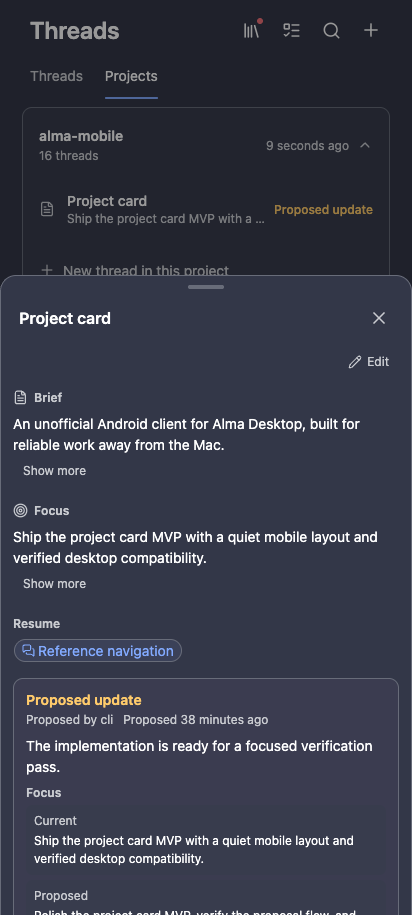
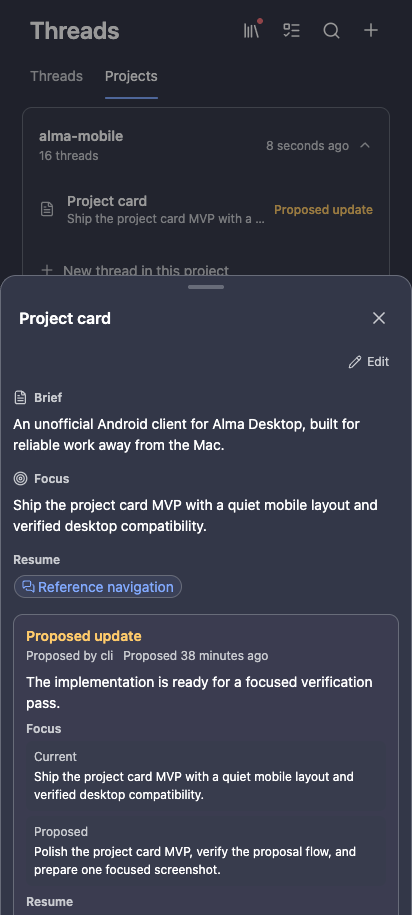
fix(ui): only show project card toggle when text overflows
Measure the clamped paragraph and hide "Show more" when the brief or
focus already fits; keep it while expanded so it can collapse again.

Changed region(s): [[0.0291, 0.4896, 0.9029, 1.0], [0.5243, 0.9792, 0.5825, 1.0], [0.7282, 0.9792, 0.7573, 1.0]]

diff --git a/src/screens/ProjectCardSection.tsx b/src/screens/ProjectCardSection.tsx
@@ -1,5 +1,11 @@
 import { FileText, Pencil, Target } from 'lucide-react'
-import { useCallback, useEffect, useState } from 'react'
+import {
+  useCallback,
+  useEffect,
+  useLayoutEffect,
+  useRef,
+  useState,
+} from 'react'
 import { useDesktopThreadEvents } from '../desktops/ThreadActivityProvider'
 import { BottomSheet } from '../components/BottomSheet'
 import { Snackbar } from '../components/Snackbar'
@@ -17,6 +23,7 @@ import {
   formatProjectCardRelativeTime,
   normalizeProjectCardResponse,
   projectCardIsHidden,
+  projectCardNeedsToggle,
 } from './projectCard'
 
 interface ProjectCardSectionProps {
@@ -34,19 +41,38 @@ type CardState =
 function ExpandableText({ value }: { value: string }) {
   const t = useT()
   const [expanded, setExpanded] = useState(false)
+  const [showToggle, setShowToggle] = useState(false)
+  const paragraph = useRef<HTMLParagraphElement>(null)
+  useLayoutEffect(() => {
+    const node = paragraph.current
+    if (!node) return
+    const measure = () =>
+      setShowToggle(
+        projectCardNeedsToggle(expanded, node.scrollHeight, node.clientHeight),
+      )
+    measure()
+    if (typeof ResizeObserver === 'undefined') return
+    const observer = new ResizeObserver(measure)
+    observer.observe(node)
+    return () => observer.disconnect()
+  }, [expanded, value])
   return value ? (
     <div className="project-card-expandable">
-      <p className={expanded ? '' : 'clamped'}>{value}</p>
-      <button
-        className="quiet-text-button"
-        onClick={() => setExpanded((current) => !current)}
-      >
-        {t(
-          expanded
-            ? 'threads.projectCard.collapse'
-            : 'threads.projectCard.expand',
-        )}
-      </button>
+      <p ref={paragraph} className={expanded ? '' : 'clamped'}>
+        {value}
+      </p>
+      {showToggle && (
+        <button
+          className="quiet-text-button"
+          onClick={() => setExpanded((current) => !current)}
+        >
+          {t(
+            expanded
+              ? 'threads.projectCard.collapse'
+              : 'threads.projectCard.expand',
+          )}
+        </button>
+      )}
     </div>
   ) : (
     <p className="project-card-empty">{t('threads.projectCard.empty')}</p>

diff --git a/src/screens/projectCard.test.ts b/src/screens/projectCard.test.ts
@@ -1,6 +1,7 @@
 import { describe, expect, it } from 'vitest'
 import { AlmaHttpError } from '../relay'
 import {
+  projectCardNeedsToggle,
   diffProjectCard,
   formatProjectCardRelativeTime,
   normalizeProjectCardResponse,
@@ -99,5 +100,18 @@ describe('project card relative time', () => {
 
   it('returns an empty string for invalid timestamps', () => {
     expect(formatProjectCardRelativeTime('invalid', Date.now(), 'en')).toBe('')
+  })
+})
+
+describe('project card expand toggle', () => {
+  it('hides the toggle when the clamped text fits', () => {
+    expect(projectCardNeedsToggle(false, 40, 40)).toBe(false)
+    expect(projectCardNeedsToggle(false, 41, 40)).toBe(false)
+  })
+  it('shows the toggle when the clamped text overflows', () => {
+    expect(projectCardNeedsToggle(false, 120, 60)).toBe(true)
+  })
+  it('keeps the toggle while expanded so it can collapse again', () => {
+    expect(projectCardNeedsToggle(true, 40, 40)).toBe(true)
   })
 })

diff --git a/src/screens/projectCard.ts b/src/screens/projectCard.ts
@@ -134,3 +134,18 @@ export function formatProjectCardRelativeTime(
 export function normalizeSavedProjectCard(value: ProjectCardResponse) {
   return normalizeProjectCardResponse(value)
 }
+
+/**
+ * Whether the expand/collapse toggle under a clamped card field should show.
+ * The toggle only makes sense when the clamped paragraph actually overflows
+ * (or is already expanded and can be collapsed again); a one-line brief must
+ * not offer a "Show more" that does nothing.
+ */
+export function projectCardNeedsToggle(
+  expanded: boolean,
+  scrollHeight: number,
+  clientHeight: number,
+) {
+  if (expanded) return true
+  return scrollHeight > clientHeight + 1
+}

diff --git a/CHANGELOG.md b/CHANGELOG.md
@@ -12,6 +12,10 @@ The format is based on [Keep a Changelog](https://keepachangelog.com/en/1.1.0/),
 - External links in rendered Markdown show the desktop-resolved site favicon when available.
 - Project groups can open a project card with the current brief, focus, resume references, editable text fields, and accept or reject controls for proposed updates.
 
+### Fixed
+
+- Project card brief and focus only offer "Show more" when the clamped text actually overflows.
+
 ## [0.1.5] - 2026-11-01
 
 ### Changed
